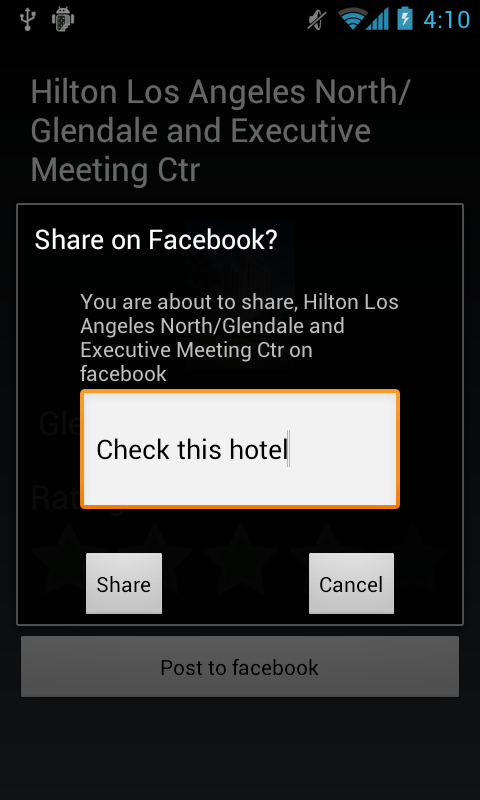
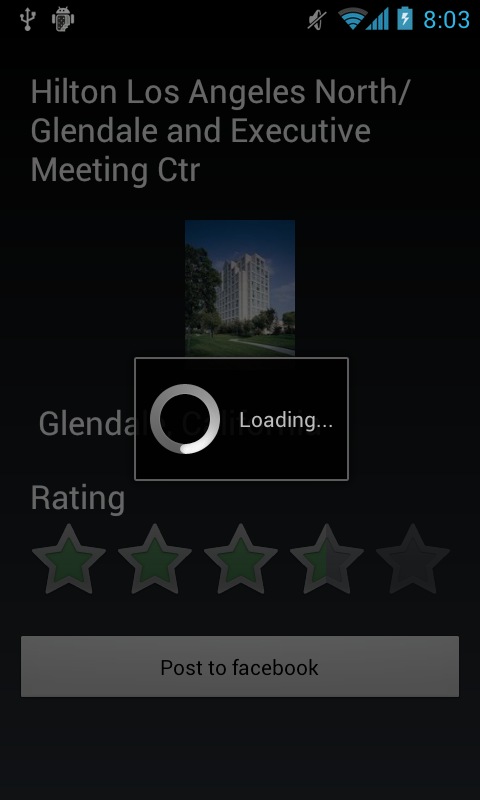
First commit

Changed region(s): [[0.0312, 0.25, 0.9688, 0.7812], [0.875, 0.0, 0.9688, 0.0312]]

diff --git a/code/src/com/urs/hotelsearch/HotelDetail.java b/code/src/com/urs/hotelsearch/HotelDetail.java
@@ -1,47 +1,45 @@
 package com.urs.hotelsearch;
 
-import java.io.FileNotFoundException;
-import java.io.IOException;
-import java.net.MalformedURLException;
-
-import com.facebook.android.AsyncFacebookRunner.RequestListener;
-import com.facebook.android.FacebookError;
+import org.json.JSONArray;
+import org.json.JSONException;
+import org.json.JSONObject;
 
 import android.app.Activity;
-import android.app.Dialog;
 import android.content.Context;
 import android.content.Intent;
 import android.os.Bundle;
 import android.view.View;
-import android.view.Window;
 import android.view.View.OnClickListener;
+import android.view.Window;
 import android.widget.Button;
-import android.widget.EditText;
 import android.widget.ImageView;
 import android.widget.RatingBar;
 import android.widget.TextView;
-import android.widget.Toast;
+
+import com.facebook.android.DialogError;
+import com.facebook.android.Facebook.DialogListener;
+import com.facebook.android.FacebookError;
 
 public class HotelDetail extends Activity {
-	
+
 	private Hotel hotel;
-	
+
 	// Handle for hotel Name label.
 	TextView lblHotelName;
-	
+
 	// Handle for hotel location label.
 	TextView lblLocation;
-	
+
 	// Handle for ImageView which displays hotel image.
 	ImageView imgHotel;
-	
+
 	// Handle for rating bar, which displays the hotel rating.
 	RatingBar ratingBar;
-	
+
 	// Handle for Post link to facebook button.
 	Button btnPost;
 	Context context = this;
-	
+
 	// String which holds the message that needs to be posted to user's
 	// facebook wall.
 	String strShareMessage;
@@ -50,7 +48,7 @@ public class HotelDetail extends Activity {
 		super.onCreate(savedInstanceState);
 		requestWindowFeature(Window.FEATURE_NO_TITLE);
 		setContentView(R.layout.hotel_detail);
-		
+
 		// Get handlers for the controls.
 		lblHotelName = (TextView) findViewById(R.id.lblHotelName);
 		lblLocation = (TextView) findViewById(R.id.lblLocation);
@@ -75,94 +73,61 @@ public class HotelDetail extends Activity {
 
 			public void onClick(View v) {
 				// On click of post button, create a new dialog
-				// which asks the user message to be shared along with the 
+				// which asks the user message to be shared along with the
 				// review link.
-				final Dialog dialog = new Dialog(context);
-				dialog.setContentView(R.layout.share_confirm);
-				dialog.setTitle("Share on Facebook?");
-				TextView lblShareHeading = (TextView) dialog
-						.findViewById(R.id.lblShareHeading);
-				lblShareHeading.setText("You are about to share, " + hotel.NAME
-						+ " on facebook");
+				Bundle params = new Bundle();
 
-				final EditText txtShareMessage = (EditText) dialog
-						.findViewById(R.id.txtShareMessage);
+				try {
+					JSONObject attachment = new JSONObject();
+					attachment.put("message", "");
+					attachment.put("name", hotel.NAME);
+					attachment.put("href", hotel.REVIEW_URL);
+					attachment.put("description", "The hotel is located at "
+							+ hotel.LOCATION + " and has a rating of "
+							+ hotel.RATING + " out of 5.");
 
-				Button btnCancel = (Button) dialog.findViewById(R.id.btnCancel);
-				btnCancel.setOnClickListener(new OnClickListener() {
+					JSONObject media = new JSONObject();
+					media.put("type", "image");
+					media.put("src", hotel.IMAGE);
+					media.put("href", hotel.IMAGE);
+					attachment.put("media", new JSONArray().put(media));
 
-					public void onClick(View v) {
-						// TODO Auto-generated method stub
-						dialog.dismiss();
-					}
-				});
+					JSONObject properties = new JSONObject();
 
-				Button btnShare = (Button) dialog.findViewById(R.id.btnShare);
-				btnShare.setOnClickListener(new OnClickListener() {
+					JSONObject prop = new JSONObject();
+					prop.put("text", " Click here");
+					prop.put("href", hotel.REVIEW_URL);
+					properties.put("For reviews and more details ", prop);
 
-					public void onClick(View v) {
-						strShareMessage = txtShareMessage.getText().toString();
-						postToFBWall();
-						dialog.dismiss();
-					}
-				});
+					attachment.put("properties", properties);
 
-				dialog.show();
-			}
-		});
-	}
+					params.putString("attachment", attachment.toString());
 
-	private void postToFBWall() {
-		if (Utility.mFacebook.isSessionValid()) {
-			shareOnFB();
-		} else {
-		}
-	}
+				} catch (JSONException e1) {
+					// TODO Auto-generated catch block
+					e1.printStackTrace();
+				}
 
-	public void shareOnFB() {
-		Bundle params = new Bundle();
-		params.putString("message", strShareMessage);
-		params.putString("link", hotel.REVIEW_URL);
-		params.putString("name", hotel.NAME);
-		params.putString("caption", "This hotel has got " + hotel.RATING
-				+ " rating");
-		params.putString("picture", hotel.IMAGE);
+				Utility.mFacebook.dialog(context, "stream.publish", params,
+						new DialogListener() {
 
-		Utility.mAsyncRunner.request("me/feed", params, "POST",
-				new RequestListener() {
+							public void onComplete(Bundle values) {
+								return;
+							}
 
-					public void onMalformedURLException(
-							MalformedURLException e, Object state) {
-						// TODO Auto-generated method stub
+							public void onFacebookError(FacebookError e) {
 
-					}
+							}
 
-					public void onIOException(IOException e, Object state) {
-						// TODO Auto-generated method stub
+							public void onError(DialogError e) {
 
-					}
+							}
 
-					public void onFileNotFoundException(
-							FileNotFoundException e, Object state) {
-						// TODO Auto-generated method stub
-
-					}
-
-					public void onFacebookError(FacebookError e, Object state) {
-						// TODO Auto-generated method stub
-
-					}
-
-					public void onComplete(String response, Object state) {
-						// TODO Auto-generated method stub
-						HotelDetail.this.runOnUiThread(new Runnable() {
-							public void run() {
-								Toast.makeText(getBaseContext(),
-										"Posted on your wall.!",
-										Toast.LENGTH_LONG).show();
+							public void onCancel() {
+								return;
 							}
 						});
-					}
-				}, null);
+			}
+		});
 	}
 }

diff --git a/code/src/com/urs/hotelsearch/MainScreen.java b/code/src/com/urs/hotelsearch/MainScreen.java
@@ -115,7 +115,7 @@ public class MainScreen extends Activity {
 				// city name and hotel chain to the new intent.
 				if (!txtCityName.getText().toString().trim().equals("")) {
 					Intent i = new Intent(getBaseContext(), HotelList.class);
-					i.putExtra("cityName", txtCityName.getText().toString().replace(" ", "+"));
+					i.putExtra("cityName", txtCityName.getText().toString().replace(" ", "+").trim());
 					i.putExtra("hotelChain", strHotelChain);
 					startActivity(i);
 				}

diff --git a/code/src/com/urs/hotelsearch/HotelList.java b/code/src/com/urs/hotelsearch/HotelList.java
@@ -162,6 +162,7 @@ public class HotelList extends Activity implements Runnable {
 				Toast.makeText(getBaseContext(),
 						"No Hotels Found, try something else.",
 						Toast.LENGTH_LONG).show();
+				finish();
 			}
 		}
 	};
